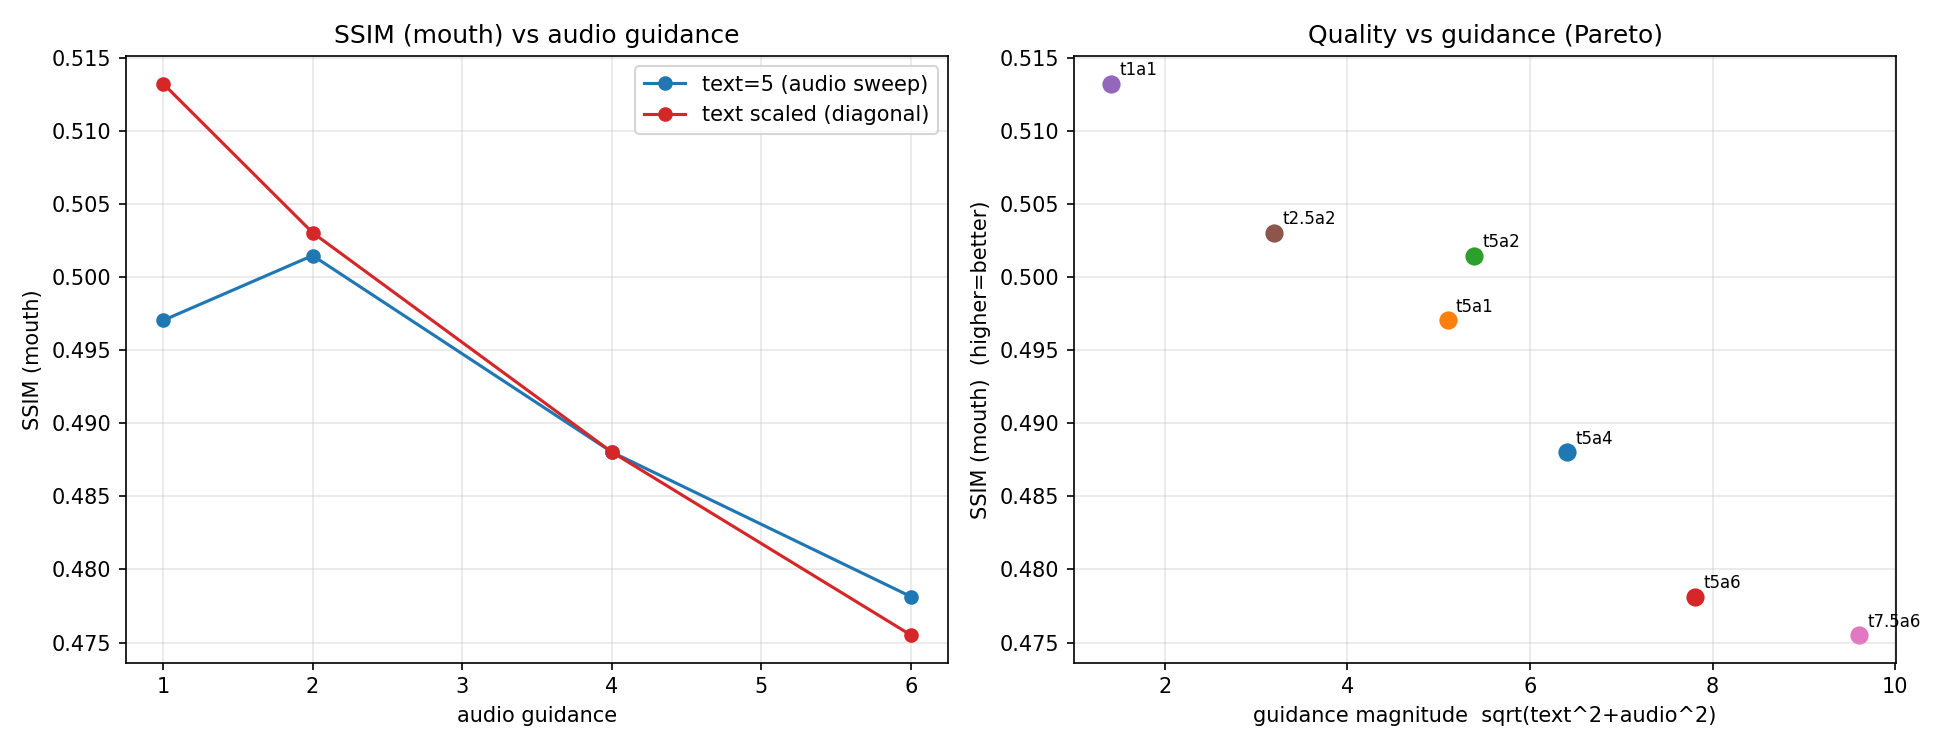
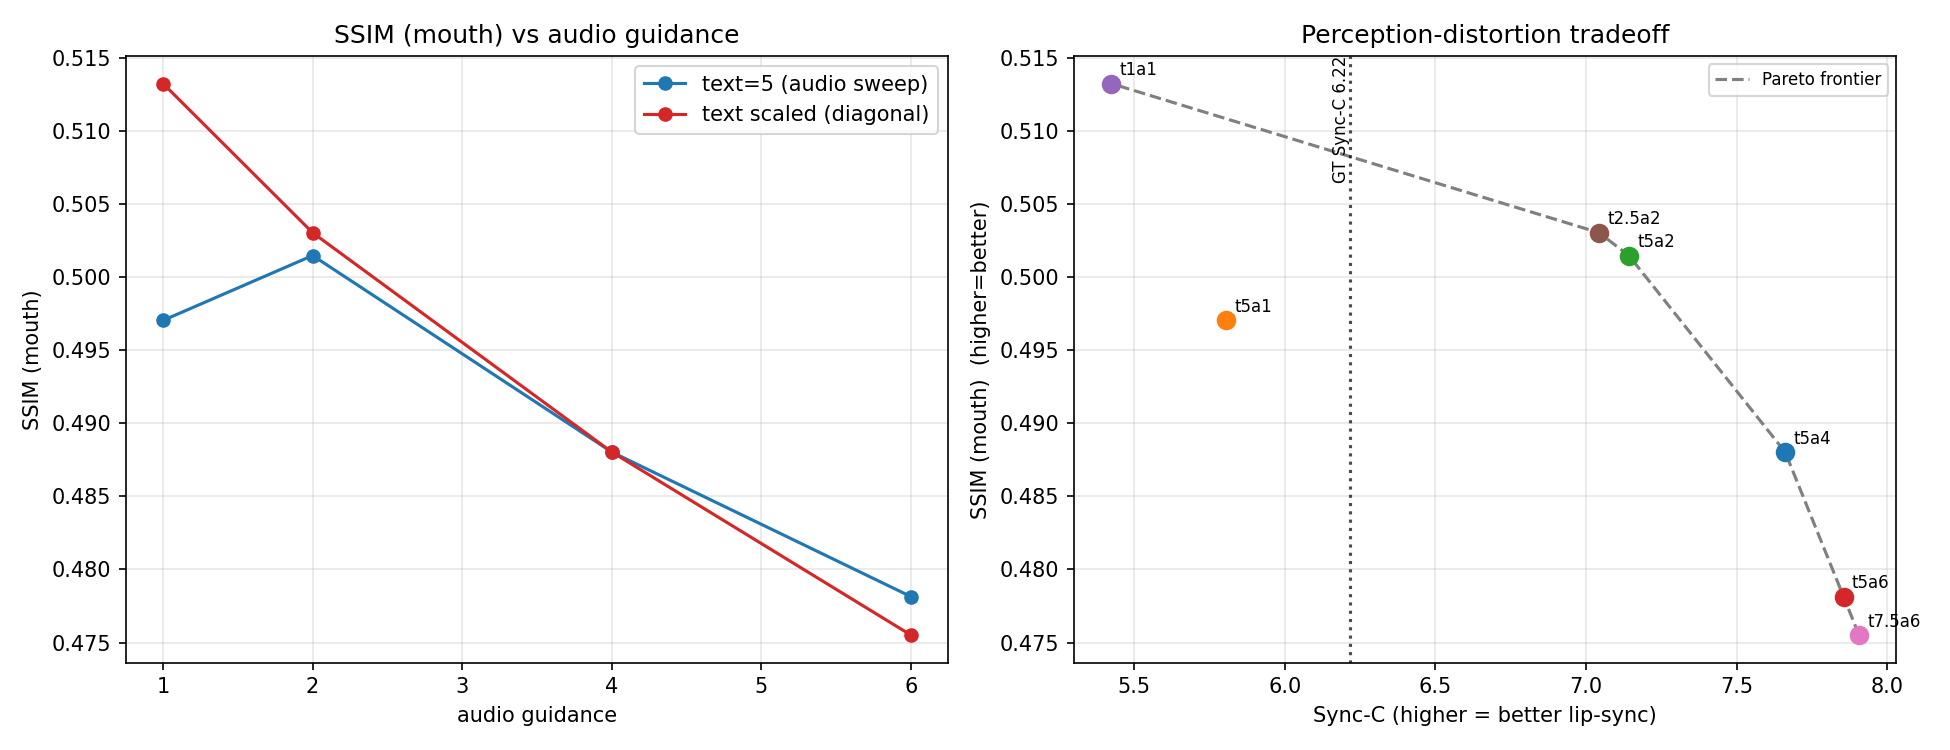
fix: correct mislabeled velocity panel, add true velocity metric, real Pareto frontier
Audit of the returned Stage-2 results. All headline numbers in findings.md were
independently re-derived from results/data/ and match exactly; terminal_values.csv
regenerates byte-identical. Four defects fixed:

1. Mislabeled velocity panel. trajectory_geometry_overlay.png plotted `delta_mse`
   (= MSE(t-1) - MSE(t), a SIGNED per-step improvement) under the label
   "trajectory velocity ||x0(t)-x0(t-1)||^2" on a LOG axis. Every step where the
   prediction moved away from GT was silently dropped -- most late steps at low CFG.
   Now labelled correctly and drawn symlog with a zero line.

2. Added a genuine {region}_velocity = ||x0(t)-x0(t-1)||^2 to the Stage-2b analyzer.
   Existing JSONs predate it; re-run Stage-2b to populate the true-velocity panel
   (the plotter renders it automatically when present).

3. The overlay figure had no generator in the repo -- it came from an uncommitted
   ad-hoc script. Added scripts/plot_trajectory_geometry_overlay.py, which reads
   either the committed results/data/ layout or a live analysis root.

4. "Pareto" panel plotted quality vs guidance magnitude, which can only slope down.
   Replaced with the real perception-distortion frontier (SSIM vs Sync-C) plus the
   GT Sync-C reference line and the non-dominated set. This surfaces a new result:
   (5,1) is strictly dominated -- text-only guidance is wasted budget.

Also corrected an over-generalized claim in findings.md: the pixel-MSE trend is
[…]

diff --git a/scripts/plot_trajectory_geometry_overlay.py b/scripts/plot_trajectory_geometry_overlay.py
@@ -1,0 +1,137 @@
+#!/usr/bin/env python
+"""Stage-2c: overlay latent-trajectory geometry (Stage-2b) for all 7 InfiniteTalk CFG configs.
+
+Reads the per-config geometry JSONs emitted by analyze_ode_trajectory_infinitetalk.py and
+overlays them. Produces `trajectory_geometry_overlay.png`.
+
+Panels:
+  1. x0 -> GT cosine similarity (how aligned the denoised prediction is with the GT latent)
+  2. Per-step improvement in x0 -> GT MSE  (`delta_mse`, SIGNED: >0 = moved closer to GT)
+  3. Trajectory velocity ||x0(t) - x0(t-1)||^2  (`velocity`, step size) -- only if present
+
+NOTE ON PANELS 2/3: these are DIFFERENT quantities and were previously conflated.
+`delta_mse` is signed and MUST NOT go on a log axis (negative steps would be silently
+dropped). `velocity` is a squared norm, is non-negative, and is the true step size.
+Geometry JSONs produced before the `velocity` metric was added simply omit panel 3.
+
+Usage:
+    # from committed results/
+    python scripts/plot_trajectory_geometry_overlay.py \
+        --geometry_dir results/data --output_dir results/figures/trajectory
+
+    # from a live analysis root (<root>/infinitetalk_t{T}_a{A}/trajectory/*.json)
+    python scripts/plot_trajectory_geometry_overlay.py \
+        --analysis_root ode_analysis_infinitetalk --output_dir results/figures/trajectory
+"""
+import argparse
+import glob
+import json
+import os
+
+import matplotlib
+matplotlib.use("Agg")
+import matplotlib.pyplot as plt
+
+CONFIGS = [(5.0, 1.0), (5.0, 2.0), (5.0, 4.0), (5.0, 6.0), (1.0, 1.0), (2.5, 2.0), (7.5, 6.0)]
+FAMILY1 = {(5.0, 1.0), (5.0, 2.0), (5.0, 4.0), (5.0, 6.0)}   # blues (by audio)
+BLUES = {1.0: "#9ecae1", 2.0: "#6baed6", 4.0: "#3182bd", 6.0: "#08519c"}
+REDS = {(1.0, 1.0): "#fcae91", (2.5, 2.0): "#fb6a4a", (5.0, 4.0): "#de2d26", (7.5, 6.0): "#a50f15"}
+
+
+def style(T, A):
+    if (T, A) in FAMILY1:
+        return BLUES.get(A, "tab:blue"), "-", f"t{T:g} a{A:g}"
+    return REDS.get((T, A), "tab:red"), "--", f"t{T:g} a{A:g}"
+
+
+def load_geometry(args, T, A):
+    """Locate a config's geometry JSON in either the committed or the live layout."""
+    cands = []
+    if args.geometry_dir:
+        cands.append(os.path.join(args.geometry_dir, f"geometry_t{T}_a{A}.json"))
+    if args.analysis_root:
+        cands += sorted(glob.glob(os.path.join(
+            args.analysis_root, f"infinitetalk_t{T}_a{A}", "trajectory", "*.json")))
+    for p in cands:
+        if os.path.exists(p):
+            with open(p) as f:
+                return json.load(f)
+    return None
+
+
+def main():
+    ap = argparse.ArgumentParser()
+    ap.add_argument("--geometry_dir", default=None,
+                    help="dir of committed geometry_t{T}_a{A}.json (e.g. results/data)")
+    ap.add_argument("--analysis_root", default=None,
+                    help="live Stage-2b root (<root>/infinitetalk_t{T}_a{A}/trajectory/)")
+    ap.add_argument("--output_dir", required=True)
+    ap.add_argument("--region", default="full", choices=["full", "mouth"])
+    args = ap.parse_args()
+    if not args.geometry_dir and not args.analysis_root:
+        ap.error("pass --geometry_dir and/or --analysis_root")
+    os.makedirs(args.output_dir, exist_ok=True)
+
+    data = {}
+    for T, A in CONFIGS:
+        d = load_geometry(args, T, A)
+        if d is not None:
+            data[(T, A)] = d
+    if not data:
+        print("no geometry JSONs found"); return
+    print(f"loaded {len(data)}/{len(CONFIGS)} configs")
+
+    R = args.region
+    has_velocity = any(f"{R}_velocity" in d for d in data.values())
+    npanel = 3 if has_velocity else 2
+    fig, axes = plt.subplots(1, npanel, figsize=(7.5 * npanel, 5.5))
+    fig.suptitle(f"InfiniteTalk latent-trajectory geometry ({R} region) — 7-config CFG sweep",
+                 fontsize=14, fontweight="bold")
+
+    # ── Panel 1: x0 → GT cosine ──
+    ax = axes[0]
+    for (T, A), d in data.items():
+        c, ls, lab = style(T, A)
+        y = d[f"{R}_cosine"]
+        ax.plot(range(len(y)), y, color=c, linestyle=ls, lw=1.8, label=lab)
+    ax.set_title(f"x0 → GT cosine similarity ({R})")
+    ax.set_xlabel("ODE step"); ax.set_ylabel("cosine(x0, GT latent)")
+    ax.grid(True, alpha=0.3); ax.legend(fontsize=8, ncol=2)
+
+    # ── Panel 2: signed per-step MSE improvement (LINEAR axis — values go negative) ──
+    ax = axes[1]
+    for (T, A), d in data.items():
+        c, ls, lab = style(T, A)
+        y = d[f"{R}_delta_mse"][1:]           # step 0 is a definitional 0
+        ax.plot(range(1, len(y) + 1), y, color=c, linestyle=ls, lw=1.5, label=lab)
+    ax.axhline(0, color="k", lw=1, alpha=0.6)
+    ax.set_title(f"Per-step improvement in x0→GT MSE ({R})\n(>0 = moved closer to GT)")
+    ax.set_xlabel("ODE step"); ax.set_ylabel("MSE(t−1) − MSE(t)")
+    ax.set_yscale("symlog", linthresh=1e-4)
+    ax.grid(True, alpha=0.3)
+
+    # ── Panel 3: true trajectory velocity (non-negative → log axis is safe) ──
+    if has_velocity:
+        ax = axes[2]
+        for (T, A), d in data.items():
+            if f"{R}_velocity" not in d:
+                continue
+            c, ls, lab = style(T, A)
+            y = d[f"{R}_velocity"][1:]        # step 0 has no predecessor
+            ax.plot(range(1, len(y) + 1), y, color=c, linestyle=ls, lw=1.5, label=lab)
+        ax.set_yscale("log")
+        ax.set_title(f"Trajectory velocity  ‖x0(t) − x0(t−1)‖²  ({R})")
+        ax.set_xlabel("ODE step"); ax.set_ylabel("step size (MSE)")
+        ax.grid(True, alpha=0.3)
+    else:
+        print("NOTE: no `{R}_velocity` in these JSONs (produced before the metric was added); "
+              "re-run Stage-2b to get the true-velocity panel.".replace("{R}", R))
+
+    plt.tight_layout()
+    out = os.path.join(args.output_dir, "trajectory_geometry_overlay.png")
+    plt.savefig(out, dpi=150); plt.close()
+    print("saved", out)
+
+
+if __name__ == "__main__":
+    main()

diff --git a/scripts/plot_cfg_grid_infinitetalk.py b/scripts/plot_cfg_grid_infinitetalk.py
@@ -45,7 +45,11 @@ METRIC_INFO = {
 
 
 def cfg_dir(analysis_root, T, A):
-    return os.path.join(analysis_root, f"infinitetalk_t{T}_a{A}", "perceptual_v2", "metrics.csv")
+    """Per-config metrics CSV. Accepts the live Stage-2a layout or the committed results/data one."""
+    live = os.path.join(analysis_root, f"infinitetalk_t{T}_a{A}", "perceptual_v2", "metrics.csv")
+    if os.path.exists(live):
+        return live
+    return os.path.join(analysis_root, f"perceptual_t{T}_a{A}.csv")
 
 
 def terminal_value(csv_path, metric, region):
@@ -67,6 +71,21 @@ def collect(analysis_root, metric, region):
     for (T, A) in CONFIGS:
         vals[(T, A)] = terminal_value(cfg_dir(analysis_root, T, A), metric, region)
     return vals
+
+
+def gt_baseline(analysis_root, metric, region):
+    """Mean GT-baseline value (the step=-1 rows), averaged over configs. None if absent."""
+    seen = []
+    for (T, A) in CONFIGS:
+        p = cfg_dir(analysis_root, T, A)
+        if not os.path.exists(p):
+            continue
+        df = pd.read_csv(p)
+        sub = df[(pd.to_numeric(df["step"], errors="coerce") == -1)
+                 & (df["metric"] == metric) & (df["region"] == region)]
+        if not sub.empty:
+            seen.append(sub["value"].astype(float).mean())
+    return float(np.mean(seen)) if seen else None
 
 
 def main():
@@ -127,17 +146,33 @@ def main():
     axL.set_xlabel("audio guidance"); axL.set_ylabel(pretty)
     axL.set_title(f"{pretty} vs audio guidance"); axL.grid(True, alpha=0.3); axL.legend()
 
-    # Pareto: quality vs total guidance magnitude sqrt(T^2+A^2)
-    for (T, A), v in vals.items():
-        if v is None:
-            continue
-        mag = float(np.hypot(T, A))
-        axR.scatter(mag, v, s=60)
-        axR.annotate(f"t{T:g}a{A:g}", (mag, v), fontsize=8,
+    # TRUE perception-distortion frontier: distortion (this metric) vs lip-sync (Sync-C).
+    # These are the two objectives guidance actually trades off; plotting quality against
+    # guidance magnitude only re-states that quality falls with guidance, which is not a Pareto view.
+    sync = collect(args.analysis_root, "sync_c", args.region)
+    gt_sync = gt_baseline(args.analysis_root, "sync_c", args.region)
+    pts = [(sync.get((T, A)), v, (T, A)) for (T, A), v in vals.items()
+           if v is not None and sync.get((T, A)) is not None]
+    for sc, v, (T, A) in pts:
+        axR.scatter(sc, v, s=70, zorder=3)
+        axR.annotate(f"t{T:g}a{A:g}", (sc, v), fontsize=8,
                      textcoords="offset points", xytext=(4, 4))
-    axR.set_xlabel("guidance magnitude  sqrt(text^2+audio^2)")
+    # frontier: non-dominated set (max Sync-C, and max/min `metric` per `lower`)
+    front = []
+    for sc, v, ta in sorted(pts, key=lambda p: -p[0]):
+        if not front or (v < front[-1][1] if lower else v > front[-1][1]):
+            front.append((sc, v, ta))
+    if len(front) > 1:
+        axR.plot([p[0] for p in front], [p[1] for p in front], "--", color="gray",
+                 lw=1.5, zorder=2, label="Pareto frontier")
+        axR.legend(fontsize=8)
+    if gt_sync is not None:
+        axR.axvline(gt_sync, color="k", ls=":", lw=1.5, alpha=0.7)
+        axR.annotate(f"GT Sync-C {gt_sync:.2f}", (gt_sync, axR.get_ylim()[1]), fontsize=8,
+                     rotation=90, va="top", ha="right", color="k")
+    axR.set_xlabel("Sync-C (higher = better lip-sync)")
     axR.set_ylabel(pretty + ("  (lower=better)" if lower else "  (higher=better)"))
-    axR.set_title("Quality vs guidance (Pareto)"); axR.grid(True, alpha=0.3)
+    axR.set_title("Perception-distortion tradeoff"); axR.grid(True, alpha=0.3)
     plt.tight_layout()
     p2 = os.path.join(args.output_dir, f"cfg_families_pareto_{metric}_{args.region}.png")
     plt.savefig(p2, dpi=150); plt.close()

diff --git a/scripts/analyze_ode_trajectory_infinitetalk.py b/scripts/analyze_ode_trajectory_infinitetalk.py
@@ -398,14 +398,24 @@ def analyze_gt_similarity(
         for metric in ["mse", "cosine"]
     }
 
+    # True trajectory velocity ‖x0(t) - x0(t-1)‖²: how far the prediction MOVES per step.
+    # Distinct from `delta_mse` below, which measures how much closer to GT it GETS.
+    for region in REGIONS:
+        metrics[f"{region}_velocity"] = np.zeros(num_steps)
+
     for sample_name in samples:
         gt = get_gt(sample_name)
         mouth_mask = masks[sample_name]
+        prev_x0 = None
         for step_i in range(num_steps):
             x0 = load_tensor(traj_dir, sample_name, f"step_{step_i:03d}_x0.pt")
             for region in REGIONS:
                 metrics[f"{region}_mse"][step_i] += compute_mse(x0, gt, mouth_mask, region)
                 metrics[f"{region}_cosine"][step_i] += compute_cosine_sim(x0, gt, mouth_mask, region)
+                # step 0 has no predecessor; its velocity stays 0 and is skipped when plotting
+                if prev_x0 is not None:
+                    metrics[f"{region}_velocity"][step_i] += compute_mse(x0, prev_x0, mouth_mask, region)
+            prev_x0 = x0
 
     n = len(samples)
     for k in metrics:
@@ -419,10 +429,12 @@ def analyze_gt_similarity(
         delta[1:] = cosine_vals[1:] - cosine_vals[:-1]
         metrics[f"{region}_delta_cosine"] = delta
 
+        # SIGNED per-step improvement in x0→GT MSE: positive = moved closer to GT,
+        # negative = moved away. NOT a step size / velocity, and NOT log-plottable.
         mse_vals = metrics[f"{region}_mse"]
         delta_mse = np.zeros(num_steps)
         delta_mse[0] = 0.0
-        delta_mse[1:] = mse_vals[:-1] - mse_vals[1:]  # MSE decrease = improvement
+        delta_mse[1:] = mse_vals[:-1] - mse_vals[1:]
         metrics[f"{region}_delta_mse"] = delta_mse
 
     return metrics

diff --git a/results/findings.md b/results/findings.md
@@ -38,18 +38,35 @@ Terminal (final-step) mouth-region quality over the (text, audio) grid:
 (compare `(5,1)`=5.81 to `(1,1)`=5.42) barely moves sync; audio is the lever. See
 `figures/cfg_grid_heatmaps_mouth.png` (Sync-C panel).
 
-**The cost is pixel-fidelity.** As audio guidance rises, terminal SSIM drops (0.513→0.476) and, along
-the trajectory, the early steps are actually *closer* to the GT in pixel/SSIM terms than the late
-steps (SSIM **0.62→0.49**, pixel-MSE **0.014→0.024** over the 50 steps). This is the classic
-**perception–distortion tradeoff**: the early blurry `x0` is a low-variance estimate near the GT mean,
-and as the ODE injects realistic, audio-driven detail the frame gains perceptual quality
-(LPIPS **0.53→0.34**) and lip-sync (Sync-C **~1→~7**) while deviating from the exact GT pixels.
-LPIPS improving confirms the frames get genuinely *better*, not worse — pixel metrics simply penalize
-the (correct) generative detail. Higher CFG amplifies both sides of the tradeoff.
+**The cost is pixel-fidelity.** As audio guidance rises, terminal SSIM drops (0.513→0.476). Along the
+trajectory, SSIM *decreases* from early to late steps at **every** config (e.g. 0.62→0.51 at `(1,1)`):
+the early blurry `x0` is a low-variance estimate near the GT mean, and the ODE then adds detail that
+pixel metrics penalize. This is the classic **perception–distortion tradeoff** — LPIPS improves over the
+same steps (**0.53→0.34**) and lip-sync rises (Sync-C **~1→~7**), confirming the frames get genuinely
+*better*, not worse.
+
+**But the pixel-MSE direction flips with guidance** — it is *not* a universal "early steps are closer to
+GT" story, and the earlier draft of this doc overstated it. Mouth pixel-MSE, first→last step:
+
+| config | mouth pixel-MSE, step 0 → 49 | direction |
+|---|---|---|
+| (1,1) no-CFG | 0.0141 → 0.0237 | drifts **away** from GT |
+| (2.5,2) | 0.0151 → 0.0254 | away |
+| (5,2) | 0.0178 → 0.0259 | away |
+| (5,4) default | 0.0256 → 0.0273 | ~flat |
+| (5,6) | 0.0373 → 0.0280 | **toward** GT |
+| (7.5,6) | 0.0423 → 0.0288 | **toward** GT |
+
+Low guidance starts near the GT mean and drifts off it as detail is added; high guidance starts far
+(it commits to generated content immediately) and *converges back*. All configs land in a narrow
+terminal band (0.024–0.029) regardless of where they started. This is the pixel-space counterpart of
+the cosine reconvergence in Stage 2b below — the same phenomenon measured two ways.
 
 Figures:
 - `figures/cfg_grid_heatmaps_mouth.png` — 2-D (text×audio) heatmaps of terminal SSIM / LPIPS / Sync-C.
-- `figures/cfg_families_pareto_ssim_mouth.png` — family sweeps + quality-vs-guidance Pareto.
+- `figures/cfg_families_pareto_ssim_mouth.png` — family sweeps + the **perception–distortion frontier**
+  (SSIM vs Sync-C, with the GT Sync-C line). Note `(5,1)` sits strictly *inside* the frontier: it is
+  dominated by `(1,1)` on SSIM and by everything else on sync, i.e. text-only guidance is wasted budget.
 - `figures/ode_curves_reference.png` — per-step MSE/SSIM/LPIPS/LMD (mouth+full), 7 configs overlaid.
 - `figures/ode_curves_noref.png` — per-step sharpness / Sync-D / Sync-C with GT baselines.
 - `figures/terminal_values.csv` — full terminal table (all metrics × regions × configs).
@@ -88,8 +105,18 @@ This is the geometric counterpart of the perception–distortion tradeoff: guida
 near-the-GT-mean early path for a more curved, detail-committing one.
 
 Figures:
-- `figures/trajectory/trajectory_geometry_overlay.png` — x0→GT cosine + trajectory velocity, 7 configs.
-- per-config `gt_similarity.png` / `audio_ablation.png` / `summary.png` under the analysis dir.
+- `figures/trajectory/trajectory_geometry_overlay.png` — x0→GT cosine + per-step MSE improvement,
+  7 configs. Regenerate with `scripts/plot_trajectory_geometry_overlay.py`.
+- per-config `gt_similarity.png` / `audio_ablation.png` / `summary.png` under `figures/per_config/`.
+
+> **Corrected in this revision.** The overlay's second panel was previously labelled
+> "trajectory velocity ‖x0(t)−x0(t−1)‖²" and drawn on a log axis. The quantity plotted was actually
+> `delta_mse` = `MSE(t−1) − MSE(t)`, a **signed** per-step *improvement*, not a step size — so the log
+> axis silently dropped every step where the prediction moved away from GT (most late steps at low
+> CFG). It is now correctly labelled and drawn on a symlog axis with a zero line, so the negative
+> excursions are visible. A genuine `{region}_velocity` = ‖x0(t)−x0(t−1)‖² has been added to
+> `analyze_ode_trajectory_infinitetalk.py`; the JSONs in `data/` predate it, so re-running Stage-2b
+> is needed to populate the true-velocity panel (the plotter adds it automatically when present).
 
 ---
 
